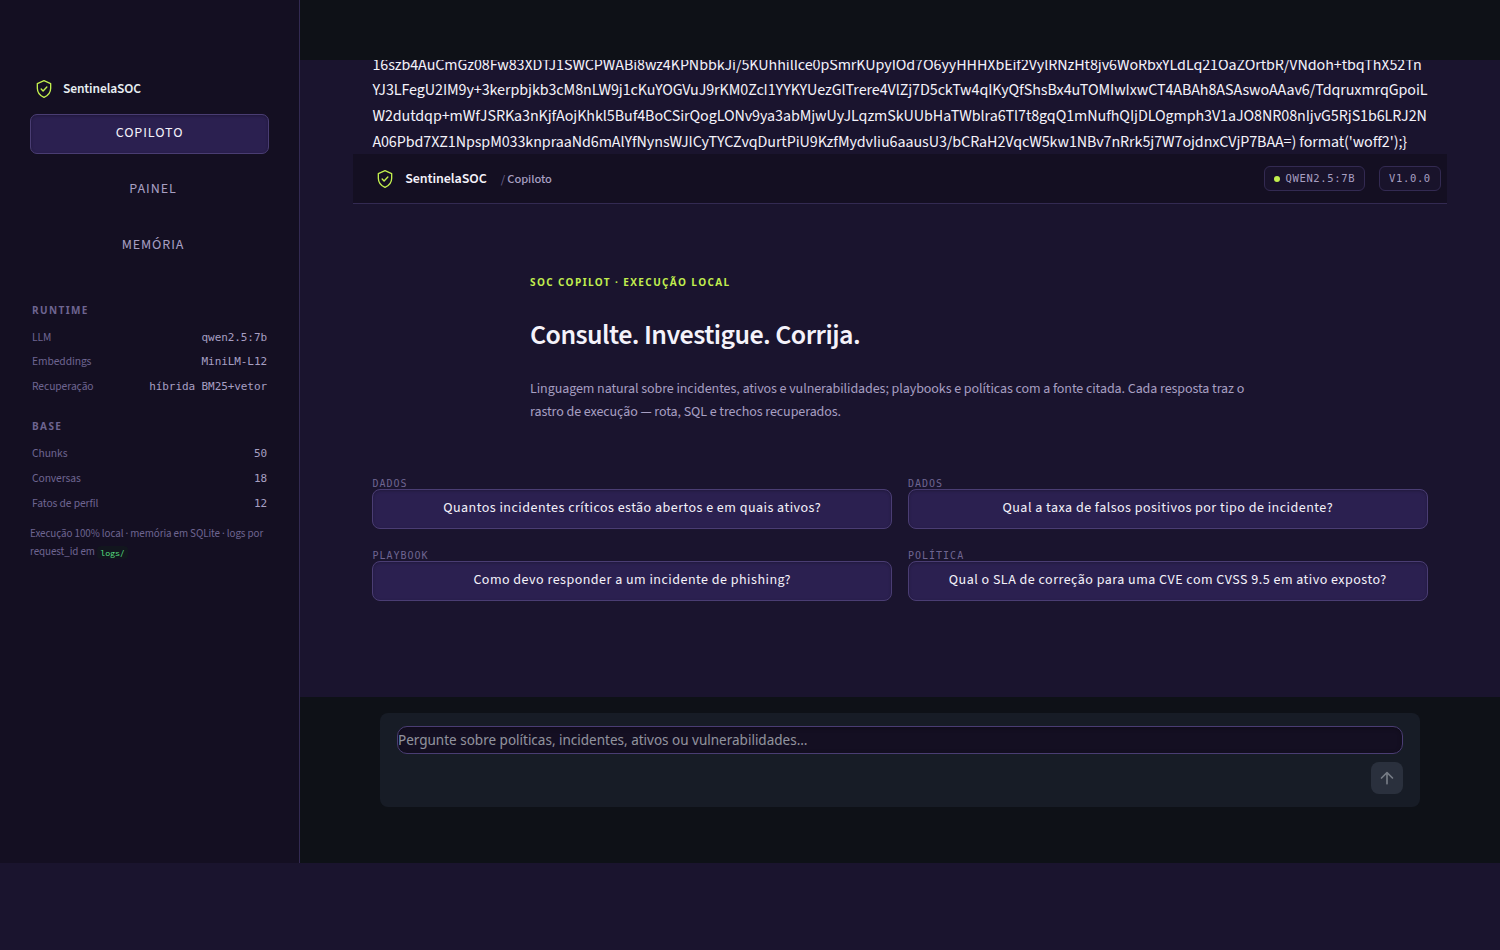
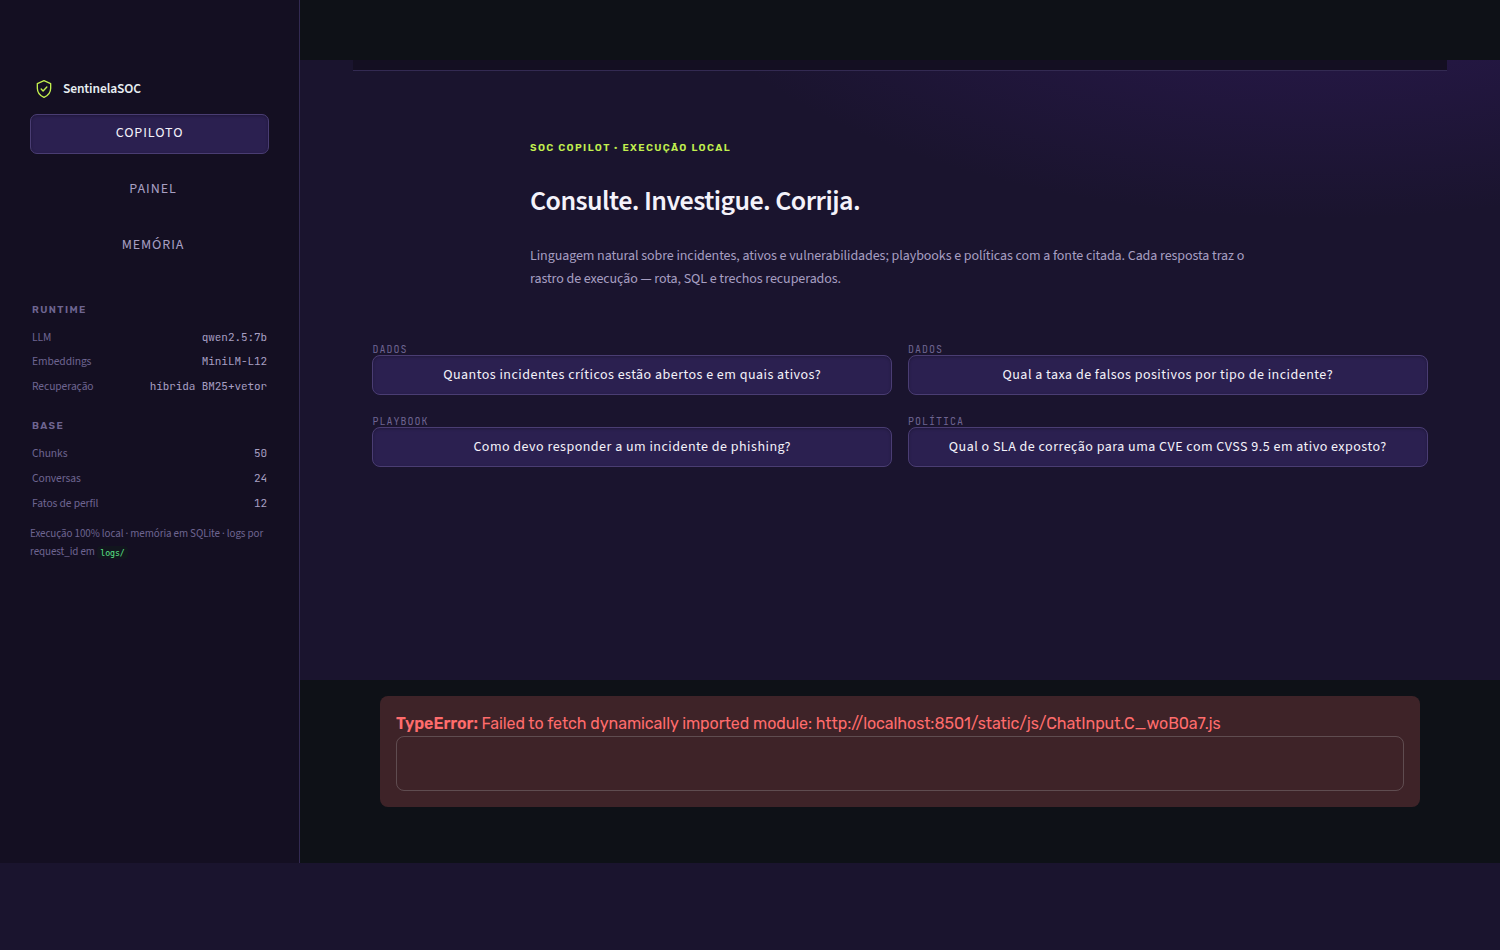
fix(web): eliminate base64 font leak (OS-level fontconfig install); feat: layered ambient Quimera background gradients

diff --git a/src/sentinelasoc/web/shell.py b/src/sentinelasoc/web/shell.py
@@ -6,8 +6,6 @@ em caixa alta com letter-spacing, botoes tateis com sombra interna e densidade d
 ferramenta profissional. Fontes auto-hospedadas (base64) — sem CDN.
 """
 
-import base64
-
 import streamlit as st
 
 import sentinelasoc
@@ -18,34 +16,6 @@ NAV = [
     ("painel", "Painel", ""),
     ("memoria", "Memória", ""),
 ]
-
-
-def _fontes_embedded() -> str:
-    """@font-face com as woff2 locais embutidas em base64 (autonomo, offline).
-
-    Apenas o subconjunto latin dos pesos essenciais (400/600 Rubik, 400 mono):
-    ~110KB embutidos — payloads maiores degradaram a renderizacao inicial.
-    """
-    import re
-    from pathlib import Path
-
-    essenciais = {"Rubik-400-latin.woff2", "Rubik-600-latin.woff2", "JetBrainsMono-400-latin.woff2"}
-    regras = []
-    for arq in sorted(essenciais):
-        caminho = Path("static/fonts") / arq
-        if not caminho.exists():
-            continue
-        m = re.match(r"(\w+)-(\d+)-latin\.woff2", arq)
-        if not m:
-            continue
-        familia, peso = m.group(1), m.group(2)
-        nome = {"Rubik": "Rubik", "JetBrainsMono": "'JetBrains Mono'"}[familia]
-        b64 = base64.b64encode(caminho.read_bytes()).decode()
-        regras.append(
-            f"@font-face {{font-family: {nome}; font-style: normal; font-weight: {peso};"
-            f" font-display: swap; src: url(data:font/woff2;base64,{b64}) format('woff2');}}"
-        )
-    return "".join(regras)
 
 
 CSS = """
@@ -75,6 +45,15 @@ CSS = """
 html, body, .stApp, .main, [class*="css"] {
   background: var(--canvas) !important; color: var(--text);
   font-family: var(--ui); letter-spacing: -0.005em;
+}
+/* Fundo Quimera: brilhos ambientes em camadas (violeta > roxo > lima) */
+.stApp, section.main {
+  background:
+    radial-gradient(1100px 520px at 88% -12%, rgba(66,32,130,.50), transparent 62%),
+    radial-gradient(900px 620px at -12% 108%, rgba(139,125,251,.13), transparent 58%),
+    radial-gradient(760px 420px at 55% 122%, rgba(194,239,78,.045), transparent 62%),
+    var(--canvas) !important;
+  background-attachment: fixed !important;
 }
 #MainMenu, footer, div[data-testid="stToolbar"] {visibility: hidden; height: 0;}
 
@@ -271,7 +250,10 @@ LOGO_SVG = """<svg width="20" height="20" viewBox="0 0 24 24" fill="none">
 
 
 def inject_css() -> None:
-    st.markdown(_fontes_embedded() + CSS, unsafe_allow_html=True)
+    """Injeta o design system. Fontes Rubik/JetBrains Mono vem do sistema
+    (instaladas em ~/.local/share/fonts) — sem payload embutido, sem vazamento
+    de data-URI no markdown."""
+    st.markdown(CSS, unsafe_allow_html=True)
 
 
 def sidebar_shell(page: str) -> None:
